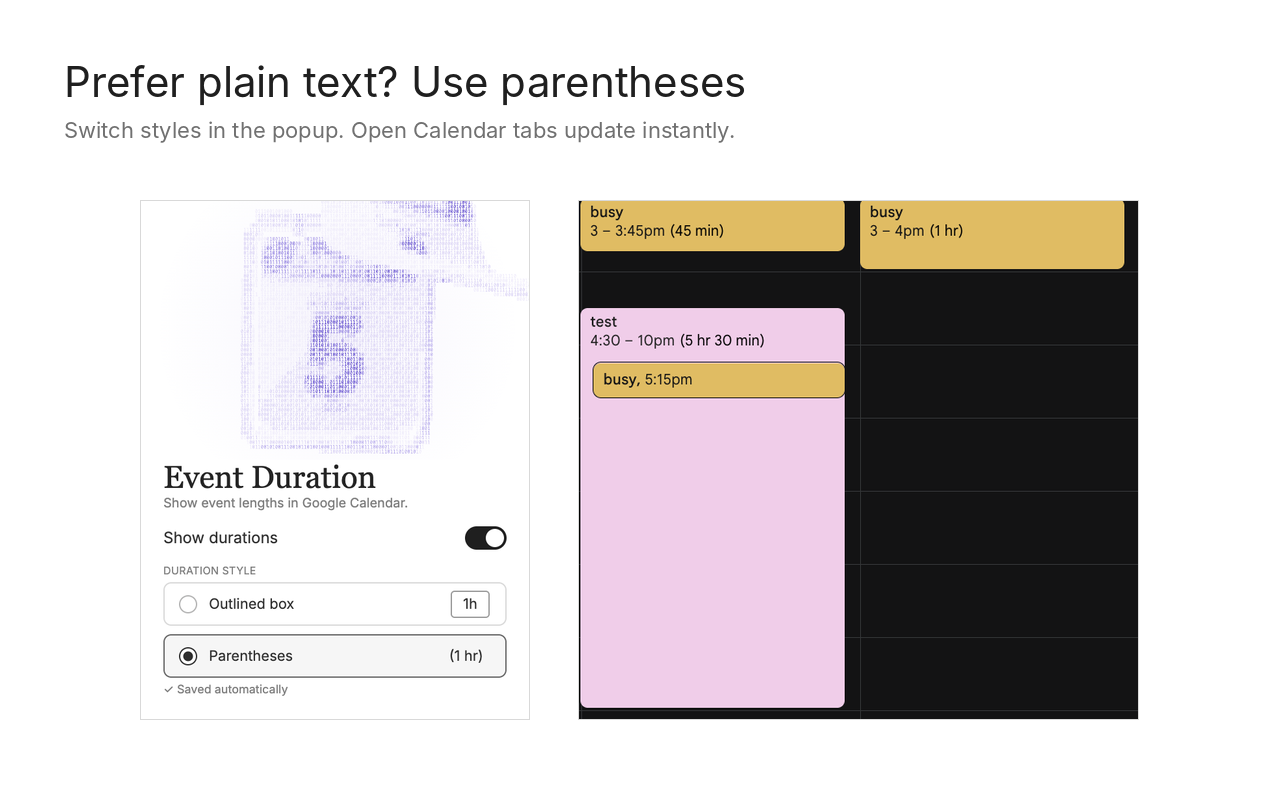
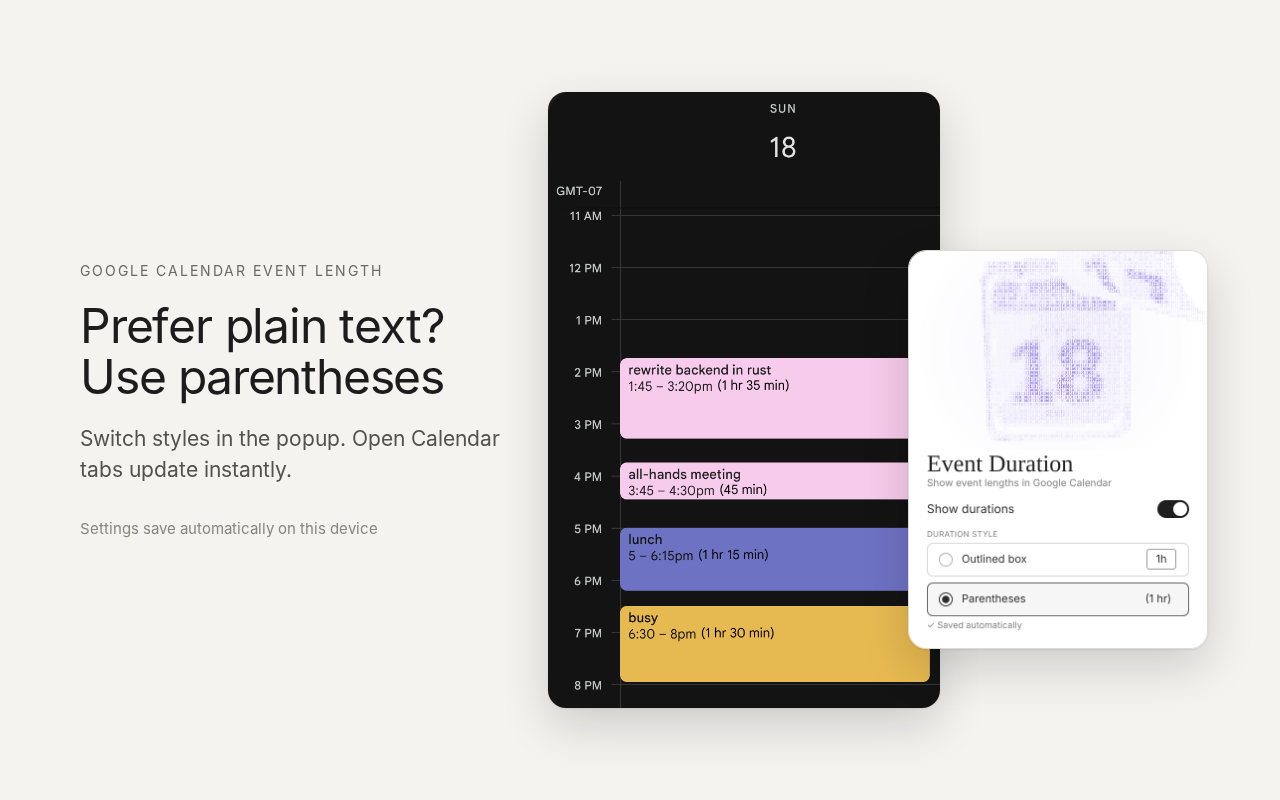
Rebuild store images from October 18 events and link the published listing

diff --git a/README.md b/README.md
@@ -2,7 +2,7 @@
 
 **See how long an event lasts, right beside its time.**
 
-An independent Chrome extension for Google Calendar's Day and Week views. Turn durations on or off and choose an outlined badge or simple parentheses from a small monochrome popup with an animated purple ASCII tear-away calendar.
+A published Chrome extension for Google Calendar's Day and Week views. **[Add it from the Chrome Web Store](https://chromewebstore.google.com/detail/noigmncmopplmmbnnddkdbkihnjlimne)**. Turn durations on or off and choose an outlined badge or simple parentheses from a small monochrome popup with an animated purple ASCII tear-away calendar.
 
 <img src="docs/images/popup.png" width="300" height="400" alt="The Event Duration popup: a purple ASCII tear-away calendar above a Show durations switch and Outlined box and Parentheses style choices">
 
@@ -14,6 +14,8 @@ This version's design is inspired by [this post by @praveenisomer](https://x.com
 
 - Turns `9:11–11:32pm` into **`2h 21m`** or **`(2 hr 21 min)`**—no mental math.
 - Puts durations **beside the time**, including tall events and events with locations.
+- Labels **short events** too, even when Calendar shows only a start time like `busy, 1:30pm`.
+- Shows the duration next to the time when you **click an event** and its details open.
 - Uses black or white for contrast, and hides the label when it cannot fit without covering the original time.
 - Saves your style choice locally and updates open Calendar tabs automatically.
 - Animates a purple ASCII tear-away calendar **only inside the popup**. Reduced-motion preferences draw a single still frame; closing or hiding the popup stops animation.
@@ -22,7 +24,9 @@ No backend, external API, analytics, or separate sign-in. Not affiliated with or
 
 ## Install it now
 
-This project is currently distributed as an unpacked extension; it has not been published to the Chrome Web Store.
+**From the Chrome Web Store (recommended):** open [Google Calendar Event Length on the Chrome Web Store](https://chromewebstore.google.com/detail/noigmncmopplmmbnnddkdbkihnjlimne), click **Add to Chrome**, then refresh Google Calendar and choose **Day** or **Week**. Chrome keeps it updated for you.
+
+The store currently has version 0.5.0. Version 0.6.0 in this repository (the monochrome popup, short-event labels, and durations in the event-details popup) will reach the store as an update after review. To try 0.6.0 before then, load it unpacked:
 
 1. Extract the **install ZIP**, or download this repository.
 2. In Chrome, open **`chrome://extensions`** and turn on **Developer mode**.

diff --git a/docs/store-assets/README.md b/docs/store-assets/README.md
@@ -1,24 +1,22 @@
 # Chrome Web Store images (v0.6.0)
 
-Upload-ready files (Chrome Web Store sizes: screenshots 1280×800, small promo tile 440×280, both full-bleed with square corners):
+Upload-ready files (Chrome Web Store sizes: screenshots 1280×800, small promo tile 440×280):
 
 | File | Use |
 | --- | --- |
-| `screenshot-1-box.png` | Screenshot: popup + Calendar with outlined-box durations |
-| `screenshot-2-text.png` | Screenshot: popup + Calendar with parentheses durations |
-| `screenshot-3-off.png` | Screenshot: durations switched off |
-| `screenshot-4-popup.png` | Screenshot: the three popup states |
-| `promo-440x280.png` | Small promotional tile (required) |
+| `screenshot-1-box.png` | First screenshot: Calendar with outlined-box durations beside the popup |
+| `screenshot-2-text.png` | Calendar with parentheses durations beside the popup |
+| `screenshot-3-details.png` | Durations in Calendar's event-details popup, both styles |
+| `screenshot-4-off.png` | Durations switched off |
+| `promo-440x280.png` | Small promotional tile |
 | `../../extension/icons/icon128.png` | Store icon |
 
 ## Editable sources
 
-`source/` holds the cropped captures every image is built from: `popup-*.png` and `calendar-*.png` come from one live Google Calendar session with the real unpacked 0.6.0 extension, and `event-chip.png` is one event from that session. Only generic events ("busy", "test", "standup") appear; personal events, the sidebar, account details, and browser chrome were cropped out before saving. Raw full-window captures are not in the repository.
+`source/` holds the cropped captures every image is built from. They come from one live Google Calendar session (Week view, Sunday, October 18, 2026) with the unpacked 0.6.0 extension: `calendar-*.png` is the Oct 18 column in each state, `popup-*.png` is the extension popup in the same states, `details-*.png` is the title and time line of one event's details popup, and `event-chip.png` is one event from the same session. The sidebar, other days, account details, and browser chrome were cropped out before saving. Raw full-window captures are not in the repository.
 
-To change captions or layout, edit `scripts/store_assets.py` and run:
+To change captions or layout, edit `scripts/store_assets.cjs` and run:
 
 ```sh
-python3 scripts/store_assets.py
+node scripts/store_assets.cjs
 ```
-
-Nothing here has been uploaded to the Chrome Web Store.

diff --git a/docs/PUBLISHING.md b/docs/PUBLISHING.md
@@ -40,7 +40,7 @@ Prepare these graphics:
 | Asset | Size | Where to get it |
 | --- | --- | --- |
 | Store icon | 128×128 PNG | `extension/icons/icon128.png` |
-| Screenshots | 1280×800, up to five | `docs/store-assets/screenshot-1-box.png` … `screenshot-4-popup.png` (live Calendar captures; see `docs/store-assets/README.md`) |
+| Screenshots | 1280×800, up to five | `docs/store-assets/screenshot-1-box.png` … `screenshot-4-off.png` (live Calendar captures from October 18, 2026; see `docs/store-assets/README.md`) |
 | Small promotional tile | 440×280 PNG/JPEG | `docs/store-assets/promo-440x280.png` |
 | Optional marquee | 1400×560 | Only needed if you choose to supply it |
 | Optional promotional video | YouTube URL | The supplied MP4 can be used to create a video; no upload was performed |
